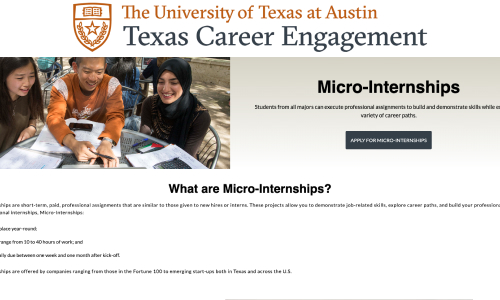
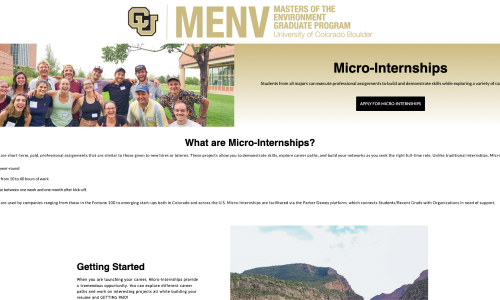
content update

diff --git a/src/components/projectsData.js b/src/components/projectsData.js
@@ -34,6 +34,7 @@ import peerPlaceWebsite from "../assets/peer-place-hero.jpg";
 import hpht from "../assets/project-images/hpht.jpg";
 import choose from "../assets/project-images/choose.jpg";
 import moreEthical from "../assets/project-images/moreEthical.jpg";
+import blueFluorescence from "../assets/project-images/blueFluorescence.jpg";
 
 const projectsData = [
   //CO Blog Posts
@@ -221,6 +222,14 @@ const projectsData = [
     completionDate: "2023/09/12",
     link: "https://www.cleanorigin.com/blog/are-lab-grown-diamonds-more-ethical-than-natural-diamonds/",
   },
+  {
+    id: 37,
+    name: "The Beauty of a Strong Blue Fluorescence Diamond: A Comprehensive Guide",
+    tags: ["SEO"],
+    image: blueFluorescence,
+    completionDate: "2023/09/14",
+    link: "https://www.cleanorigin.com/blog/strong-blue-fluorescence-diamond/",
+  },
 
   //TP Articles
   {
@@ -302,10 +311,10 @@ const projectsData = [
   {
     id: 28,
     name: "Landing Page Code Updates",
-    tags: ["DESIGN", "DEVELOPMENT"],
+    tags: ["DEVELOPMENT"],
     image: moduleUpdates,
     completionDate: "2023/06/20",
-    link: "https://info.parkerdewey.com/utexas/students",
+    link: "https://info.parkerdewey.com/colorado/menv/students",
   },
   {
     id: 29,

diff --git a/src/components/Work.js b/src/components/Work.js
@@ -74,8 +74,7 @@ const Work = () => {
                 elevating its visibility and driving increased organic traffic.
               </div>
               <div className="work-section-content-2-card-tags">
-                <div className="seo-tag">SEO</div>•
-                <div className="design-tag">DESIGN</div>
+                <div className="seo-tag">SEO</div>
               </div>
             </div>
           </div>

diff --git a/src/components/css/hero.css b/src/components/css/hero.css
@@ -25,7 +25,7 @@
   color: #666;
   font-size: 24px;
   font-weight: 500;
-  margin-bottom: 20px;
+  margin-bottom: 10px;
   padding-left: 0;
 }
 
